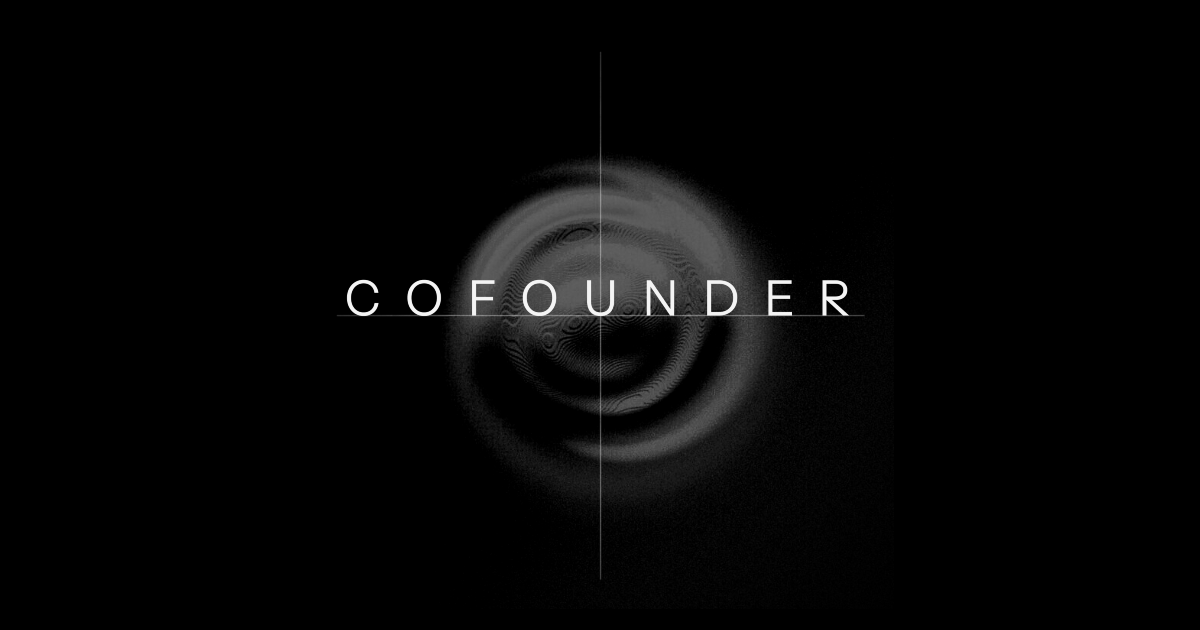
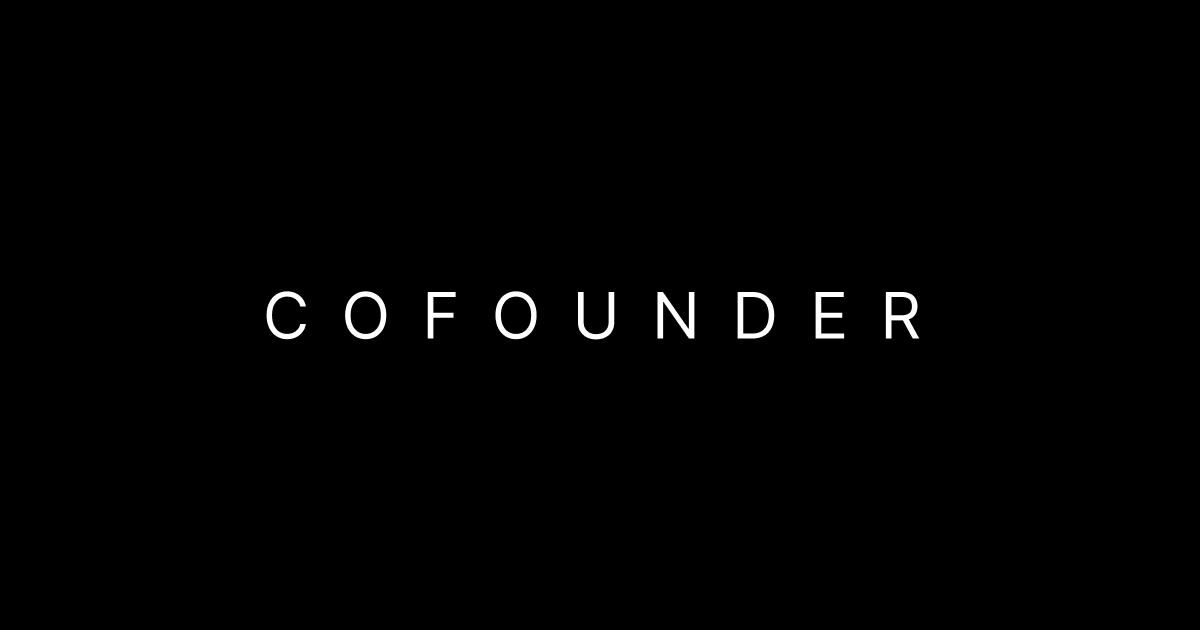
redux boilerplate placeholder

Changed region(s): [[0.2158, 0.2413, 0.7092, 0.7841], [0.74, 0.4524, 0.7708, 0.5429], [0.4317, 0.7238, 0.4625, 0.754]]

diff --git a/cofounder/boilerplate/vitereact-boilerplate/src/store/main.tsx b/cofounder/boilerplate/vitereact-boilerplate/src/store/main.tsx
@@ -1,197 +1,9 @@
-import {
-	configureStore,
-	createSlice,
-	createAsyncThunk,
-	PayloadAction,
-} from "@reduxjs/toolkit";
-import { useDispatch, useSelector } from "react-redux"; // Importing useDispatch and useSelector from react-redux
+import { configureStore } from "@reduxjs/toolkit";
 
-// Define types directly here as any
-type RecipePreview = any;
-type RecipeDetails = any;
-
-interface AppState {
-	searchQuery: string;
-	latestRecipes: RecipePreview[] | null;
-	loadingLatestRecipes: boolean;
-	latestRecipesError: string | null;
-	allRecipes: RecipePreview[] | null;
-	loadingAllRecipes: boolean;
-	allRecipesError: string | null;
-	recipeDetails: RecipeDetails | null;
-	loadingRecipeDetails: boolean;
-	recipeDetailsError: string | null;
-}
-
-// Initial state definition
-const initialState: AppState = {
-	searchQuery: "",
-	latestRecipes: null,
-	loadingLatestRecipes: false,
-	latestRecipesError: null,
-	allRecipes: null,
-	loadingAllRecipes: false,
-	allRecipesError: null,
-	recipeDetails: null,
-	loadingRecipeDetails: false,
-	recipeDetailsError: null,
-};
-
-// Asynchronous Actions (Thunks)
-export const fetchLatestRecipes = createAsyncThunk(
-	"recipes/fetchLatestRecipes",
-	async (_, { rejectWithValue }) => {
-		try {
-			const response = await fetch("http://localhost:1337/api/v1/recipes/latest");
-			if (!response.ok) {
-				throw new Error("Failed to fetch latest recipes");
-			}
-			const data: RecipePreview[] = await response.json();
-			return data;
-		} catch (error) {
-			return rejectWithValue(
-				error instanceof Error ? error.message : "Unknown error",
-			);
-		}
-	},
-);
-
-export const fetchAllRecipes = createAsyncThunk(
-	"recipes/fetchAllRecipes",
-	async (
-		{ offset = 0, limit = 20 }: { offset?: number; limit?: number },
-		{ rejectWithValue },
-	) => {
-		try {
-			const response = await fetch(
-				`http://localhost:1337/api/v1/recipes?offset=${offset}&limit=${limit}`,
-			);
-			if (!response.ok) {
-				throw new Error("Failed to fetch recipes");
-			}
-			const data: RecipePreview[] = await response.json();
-			return data;
-		} catch (error) {
-			return rejectWithValue(
-				error instanceof Error ? error.message : "Unknown error",
-			);
-		}
-	},
-);
-
-export const fetchRecipeDetails = createAsyncThunk(
-	"recipes/fetchRecipeDetails",
-	async (id: number, { rejectWithValue }) => {
-		try {
-			const response = await fetch(`http://localhost:1337/api/v1/recipes/${id}`);
-			if (!response.ok) {
-				throw new Error("Failed to fetch recipe details");
-			}
-			const data: RecipeDetails = await response.json();
-			return data;
-		} catch (error) {
-			return rejectWithValue(
-				error instanceof Error ? error.message : "Unknown error",
-			);
-		}
-	},
-);
-
-// Slice
-const recipeSlice = createSlice({
-	name: "recipes",
-	initialState,
-	reducers: {
-		setSearchQuery(state, action: PayloadAction<string>) {
-			state.searchQuery = action.payload;
-		},
-		resetAllRecipes(state) {
-			state.allRecipes = null;
-			state.allRecipesError = null;
-			state.loadingAllRecipes = false;
-		},
-	},
-	extraReducers: (builder) => {
-		// Latest Recipes
-		builder.addCase(fetchLatestRecipes.pending, (state) => {
-			state.loadingLatestRecipes = true;
-			state.latestRecipesError = null;
-		});
-		builder.addCase(
-			fetchLatestRecipes.fulfilled,
-			(state, action: PayloadAction<RecipePreview[]>) => {
-				state.latestRecipes = action.payload;
-				state.loadingLatestRecipes = false;
-			},
-		);
-		builder.addCase(
-			fetchLatestRecipes.rejected,
-			(state, action: PayloadAction<any>) => {
-				state.loadingLatestRecipes = false;
-				state.latestRecipesError = action.payload;
-			},
-		);
-
-		// All Recipes
-		builder.addCase(fetchAllRecipes.pending, (state) => {
-			state.loadingAllRecipes = true;
-			state.allRecipesError = null;
-		});
-		builder.addCase(
-			fetchAllRecipes.fulfilled,
-			(state, action: PayloadAction<RecipePreview[]>) => {
-				state.allRecipes = state.allRecipes
-					? [...state.allRecipes, ...action.payload]
-					: action.payload;
-				state.loadingAllRecipes = false;
-			},
-		);
-		builder.addCase(
-			fetchAllRecipes.rejected,
-			(state, action: PayloadAction<any>) => {
-				state.loadingAllRecipes = false;
-				state.allRecipesError = action.payload;
-			},
-		);
-
-		// Recipe Details
-		builder.addCase(fetchRecipeDetails.pending, (state) => {
-			state.loadingRecipeDetails = true;
-			state.recipeDetailsError = null;
-		});
-		builder.addCase(
-			fetchRecipeDetails.fulfilled,
-			(state, action: PayloadAction<RecipeDetails>) => {
-				state.recipeDetails = action.payload;
-				state.loadingRecipeDetails = false;
-			},
-		);
-		builder.addCase(
-			fetchRecipeDetails.rejected,
-			(state, action: PayloadAction<any>) => {
-				state.loadingRecipeDetails = false;
-				state.recipeDetailsError = action.payload;
-			},
-		);
-	},
+// Create a Redux store
+const store = configureStore({
+	reducer: {}, // Empty reducer to prevent crashing
 });
 
-// Exports
-export const { setSearchQuery, resetAllRecipes } = recipeSlice.actions;
-
-export const store = configureStore({
-	reducer: {
-		recipes: recipeSlice.reducer,
-	},
-});
-
-// Infer the `RootState` and `AppDispatch` types from the store itself
-export type RootState = ReturnType<typeof store.getState>;
-export type AppDispatch = typeof store.dispatch;
-
-// Hook to access the redux store within a component
-export const useAppDispatch = () => useDispatch<AppDispatch>();
-export const useAppSelector: (selector: (state: RootState) => any) => any =
-	useSelector;
-
+// Export the store as default
 export default store;

diff --git a/cofounder/api/system/functions/ux/datamap.js b/cofounder/api/system/functions/ux/datamap.js
@@ -210,7 +210,7 @@ async function uxDatamapViews({ context, data }) {
 
 	let tasks = [];
 
-	const UVs = Object.keys(uxsitemap.structure.views.unique);
+	const UVs = Object.keys(uxsitemap?.structure?.views?.unique) || {};
 	if (UVs.length) {
 		_chunkify(UVs, 5).map((uniqueViewsIdsChunk) => {
 			let filteredUxSitemap = { views: { unique: {} } };
@@ -227,7 +227,8 @@ async function uxDatamapViews({ context, data }) {
 			});
 		});
 	}
-	const GVs = Object.keys(uxsitemap.structure.views.shared);
+	
+	const GVs = Object.keys(uxsitemap?.structure?.views?.shared) || {};
 	if (GVs.length) {
 		tasks.push({
 			uxsitemap: { views: { shared: uxsitemap.structure.views.shared } }, // filtered ux sitemap with all shared views

diff --git a/cofounder/api/system/functions/webapp/view.js b/cofounder/api/system/functions/webapp/view.js
@@ -16,7 +16,7 @@ async function webappViewGenerateMulti({ context, data }) {
 	};
 
 	const tasks = [
-		...Object.keys(views.unique).map((viewId) => {
+		...( Object.keys(views?.unique) || {} ).map((viewId) => {
 			return {
 				task: {
 					type: "view",
@@ -28,7 +28,7 @@ async function webappViewGenerateMulti({ context, data }) {
 				},
 			};
 		}),
-		...Object.keys(views.shared).map((viewId) => {
+		...( Object.keys(views?.shared) || {} ).map((viewId) => {
 			return {
 				task: {
 					type: "view",

diff --git a/cofounder/api/system/functions/webapp/root.js b/cofounder/api/system/functions/webapp/root.js
@@ -10,8 +10,8 @@ async function promptRoot({ context, data }) {
 	const { uxsitemap, uxdatamap, webapp } = data;
 
 	const viewsImportHead = [
-		...Object.keys(uxsitemap.structure.views.shared),
-		...Object.keys(uxsitemap.structure.views.unique),
+		...( Object.keys(uxsitemap?.structure?.views?.shared) || {} ),
+		...( Object.keys(uxsitemap?.structure?.views?.unique) || {} ),
 	]
 		.map((viewId) => {
 			return `import ${viewId} from '@/components/views/${viewId}.tsx';`;

diff --git a/README.md b/README.md
@@ -1,5 +1,5 @@
 
-![cofounder-og](https://github.com/user-attachments/assets/a9cda40f-0bf8-423b-815d-d8d6891f7ce3)
+![cofounder-og-black](https://github.com/user-attachments/assets/b4e51f02-59e4-4540-ac14-e1f40e20a658)
 
 # Cofounder | Early alpha release
 
@@ -12,7 +12,7 @@
 
 
 
-https://github.com/user-attachments/assets/b78d25aa-7cd3-49ee-a6f8-a952a77c8096
+https://github.com/user-attachments/assets/cfd09250-d21e-49fc-a29b-fa0c661abfc0
 
 
 
@@ -149,9 +149,8 @@ archi/v1 is as follows :
 
 ---
 
-# Some Credits
+# Credits
 
-- Cover art edited from image found in [patriciaklein.de](https://patriciaklein.de)
 - Demo design systems built using Figma renders / UI kits from:
   * blocks.pm by Hexa Plugin (see `cofounder/api/system/presets`)
   * google material
